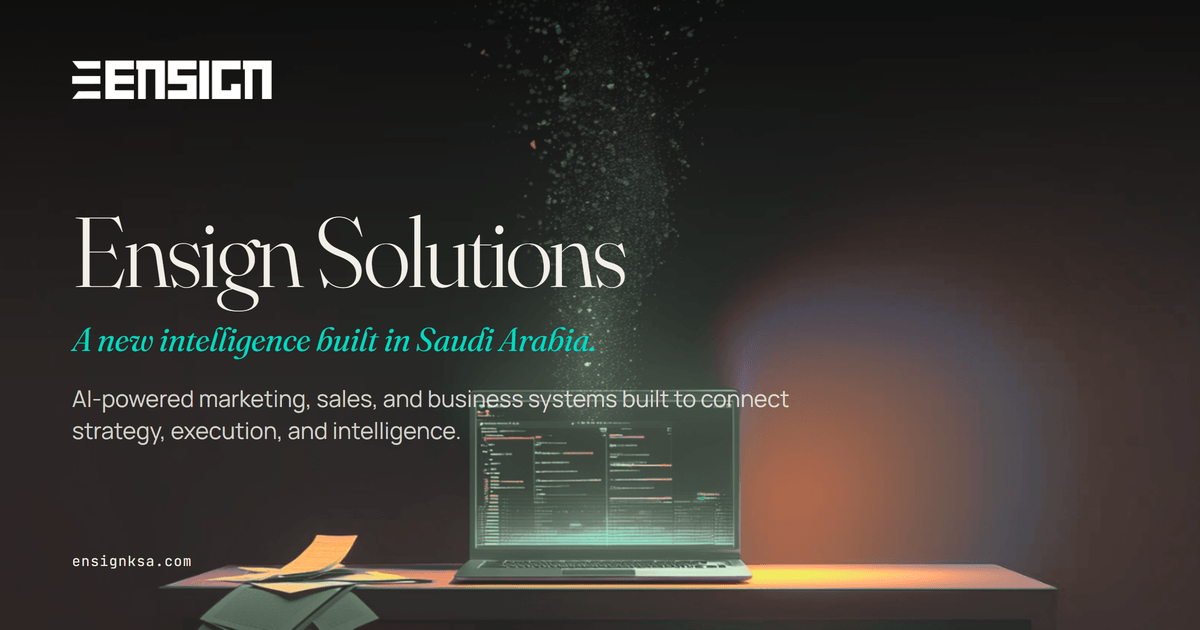
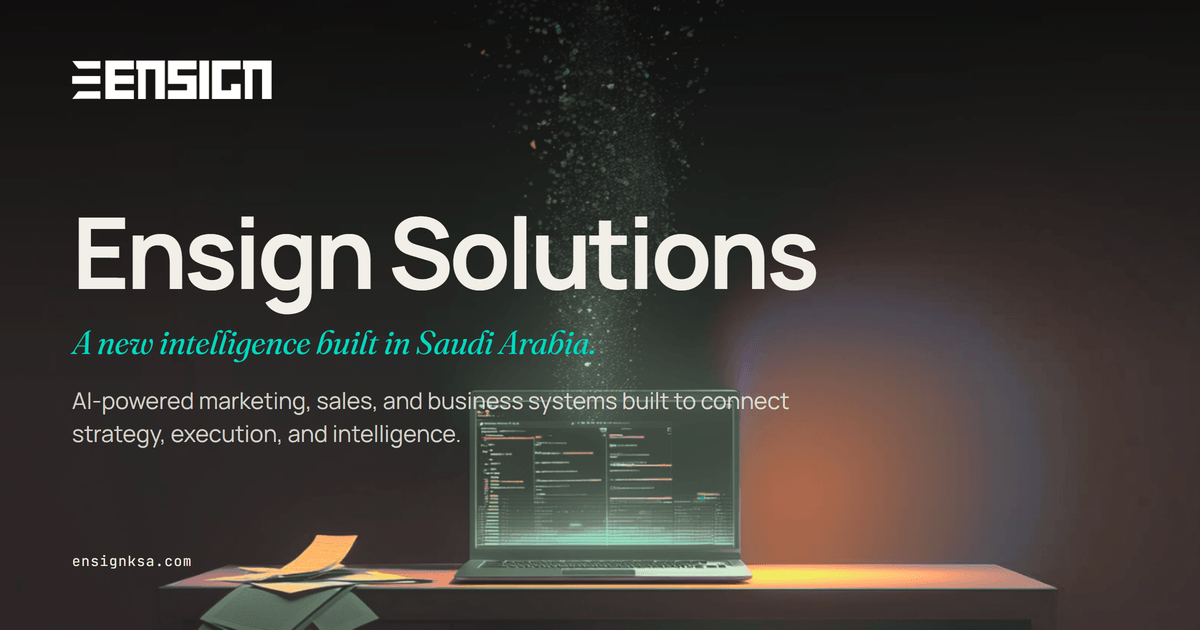
Revert OG headline to Manrope bold (subheadline stays Fraunces italic)

Changed region(s): [[0.0617, 0.3317, 0.6783, 0.573], [0.0617, 0.6032, 0.6475, 0.7238]]

diff --git a/tools/og-previews/final.html b/tools/og-previews/final.html
@@ -36,12 +36,11 @@
   }
   .stack{max-width:820px;}
   .headline{
-    font-family:'Fraunces',serif;
-    font-weight:300;
-    font-variation-settings:"SOFT" 50, "opsz" 144;
+    font-family:'Manrope',sans-serif;
+    font-weight:700;
     font-size:99px;
-    line-height:.95;
-    letter-spacing:-.035em;
+    line-height:1;
+    letter-spacing:-.04em;
     color:#F2EFE8;
     margin-bottom:22px;
   }
